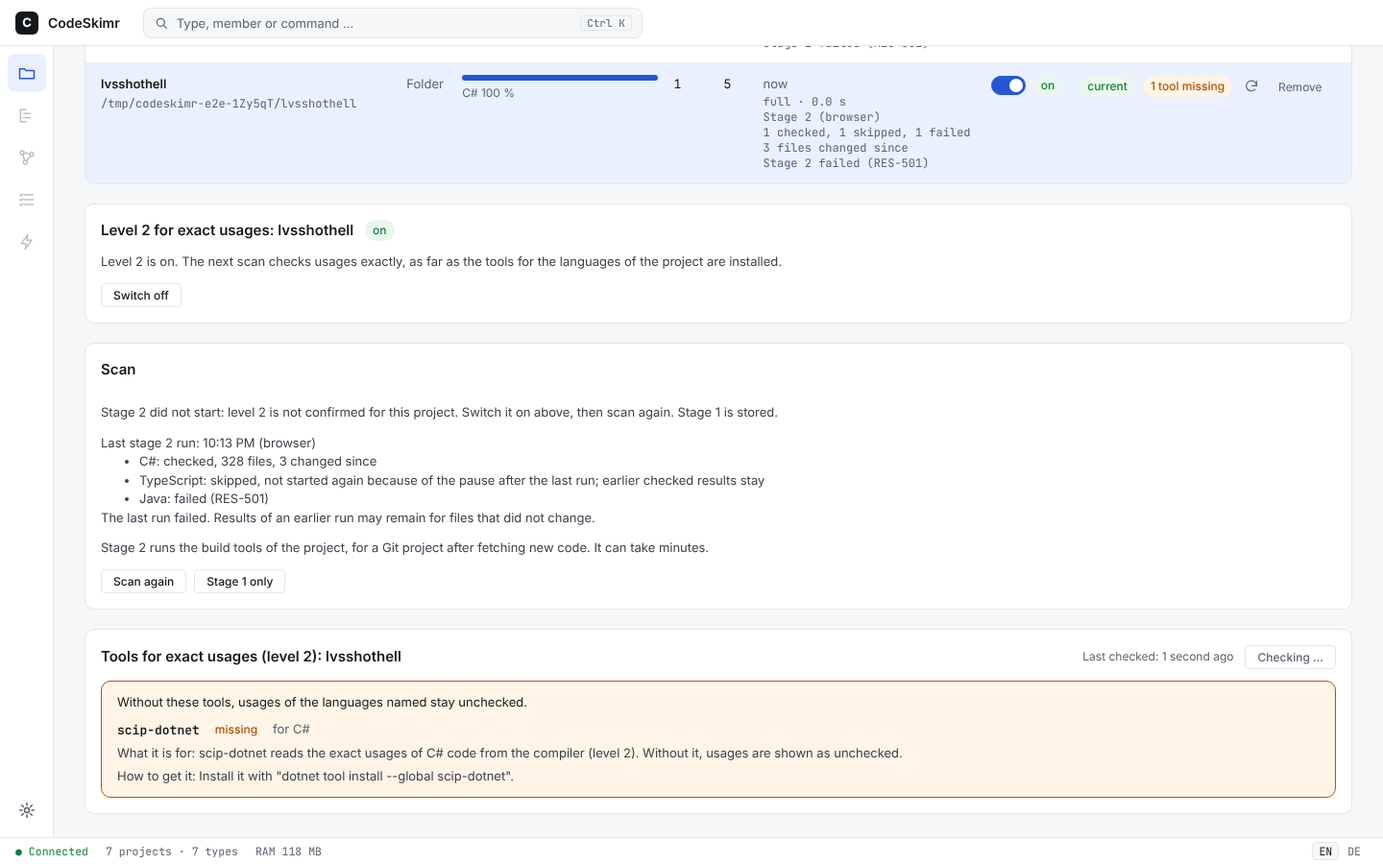
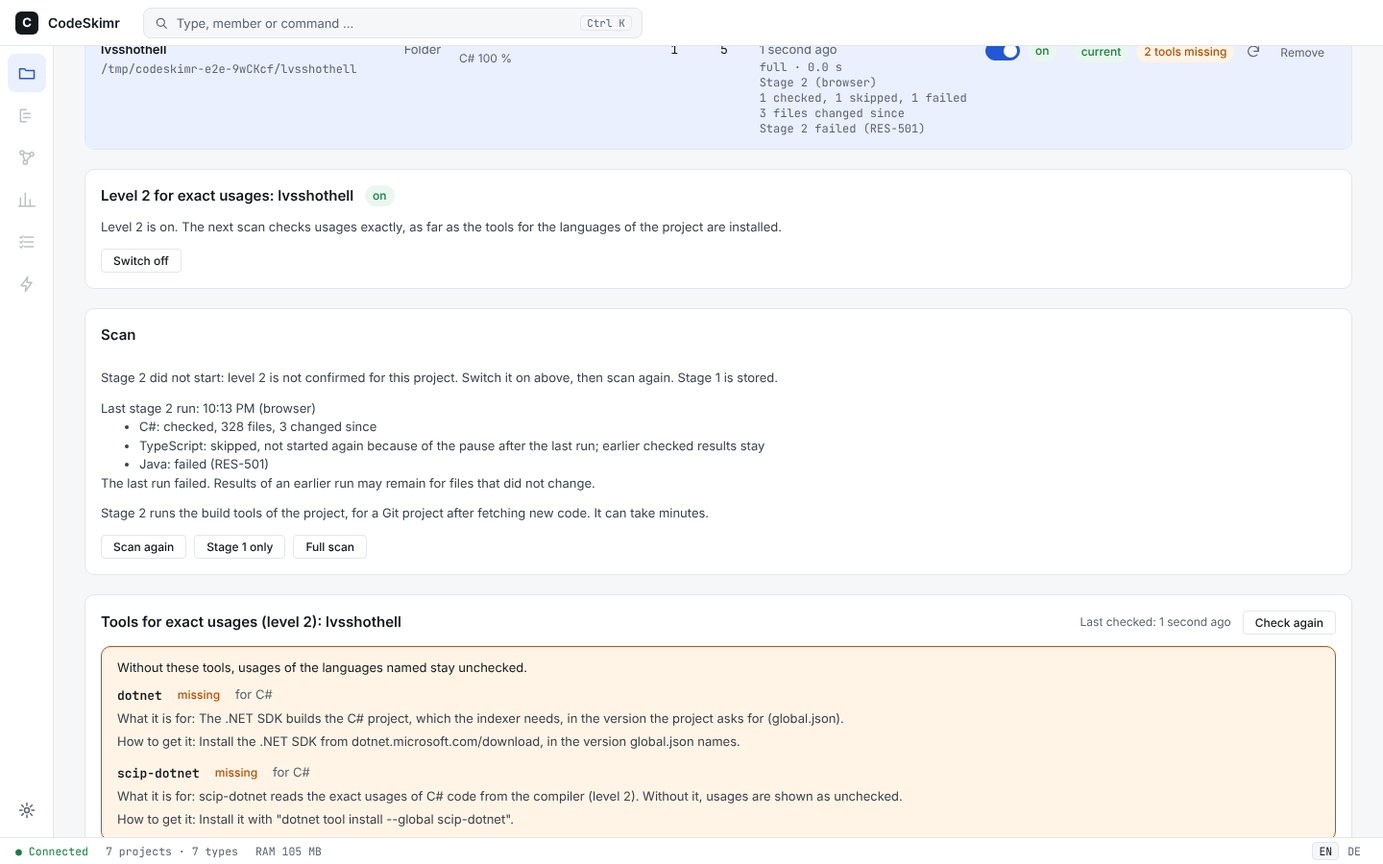
feat(ui): start a full scan of a known project from the Projects screen (#681)
<!-- claude-projects-attribution: {"github_login":"stacknoise"} -->
_Requested by **Anton** · [project
thread](https://claude.ai/code/project/chan_01BurfeyeHWcU615RsoB5poQ?thread=cmsg_01BurfeyeHWcU615RsoB5poQF3sCpakFDpofmNJyMDMRdh)_

## Was ändert sich und warum?

Bisher konnte man ein bereits bekanntes Projekt nur in der Konsole
vollständig neu scannen (`codeskimr scan <pfad>`). Die Knöpfe „Erneut
scannen“ und „Nur Stufe 1“ im Projekte-Bildschirm lesen immer nur die
Änderungen seit dem letzten Scan ein.

Jetzt gibt es im Abschnitt „Scan“ des ausgewählten Projekts einen
dritten Knopf **„Vollständig neu scannen“**. Er liest alle Dateien neu
ein, genau wie der Befehl in der Konsole. Stufe 2 läuft danach wie bei
„Erneut scannen“, wenn sie für das Projekt eingeschaltet und bestätigt
ist.

Technisch: Der Befehl `projects.rescan` bekommt die optionale Angabe
`full` (Standard: aus). Die Scan-Pipeline selbst ist nicht angefasst.

## So probierst du es aus

1. CodeSkimr starten, im Projekte-Bildschirm ein schon gescanntes
Projekt auswählen.
2. Im Abschnitt „Scan“ auf „Vollständig neu scannen“ klicken.
3. In der Projektliste steht beim letzten Scan danach die Art
„vollständig“ statt „inkrementell“.

## Screenshots (bei UI-Änderungen, mit Mock-Vergleich)

Mock 18 (`docs/mocks/Level2Switch.dc.html`) ist in allen drei Themen um
den dritten Knopf ergänzt; die gespeicherten Bilder
`docs/screenshots/level2-scan/scan-report-*.png` sind neu erzeugt. Der
[…]

diff --git a/docs/mocks/Level2Switch.dc.html b/docs/mocks/Level2Switch.dc.html
@@ -51,8 +51,8 @@ td{padding:10px 12px;border-bottom:1px solid var(--soft);vertical-align:top}.sub
 <div class="board petrol tall"><header><div class="logo">C</div><b>CodeSkimr</b><span class="chip">Projekte: Zustände des Schalters</span></header><div class="main"><div class="rail"></div><div class="content"><h1>Projekte</h1><p class="cap">Zustand aus: Einschalten öffnet ein Konsolenfenster</p><section class="card panel"><div class="ph"><h2>Stufe 2 für genaue Verwendungen: shop</h2><span class="pill neutral">aus</span></div><p class="muted" style="margin:0">Stufe 2 ist aus, Scans bleiben bei Stufe 1. Zum Einschalten bestätigst du in einem Konsolenfenster, dass Build-Werkzeuge dieses Projekts laufen dürfen.</p><div class="row"><button class="btn pri focus">Einschalten</button></div></section><p class="cap">Zustand an: Ausschalten fragt kurz nach</p><section class="card panel"><div class="ph"><h2>Stufe 2 für genaue Verwendungen: shop</h2><span class="pill good">an</span></div><div class="box ask" role="group"><b>Stufe 2 für shop ausschalten?</b><p>Geprüfte Ergebnisse bleiben bis zum nächsten Scan erhalten. Der nächste Scan läuft nur mit Stufe 1.</p><div class="row"><button class="btn pri focus">Ja, ausschalten</button><button class="btn">Abbrechen</button></div></div></section><p class="cap">Zustand nicht freigeschaltet: nur ein Hinweis, es wird nichts geschrieben</p><section class="card panel"><div class="ph"><h2>Stufe 2 für genaue Verwendungen: shop</h2><span class="pill warn">nicht freigeschaltet</span></div><p class="muted" style="margin:0">Stufe 2 ist auf diesem Rechner nicht freigeschaltet. CodeSkimr ändert diese Einstellung nie selbst. Trage diese zwei Zeilen in deine Konfigurationsdatei config.toml ein, speichere sie und starte CodeSkimr neu:</p><pre class="code" style="margin:0">[level2]
 enabled = true</pre><p class="mono muted" style="margin:0">Datei: in deiner config.toml im Datenordner</p><div class="row"><button class="btn">Zustand neu lesen</button></div></section></div></div></div>
 <div class="board hell tall"><header><div class="logo">C</div><b>CodeSkimr</b><span class="chip">Projekte: Rückfall und Fehler</span></header><div class="main"><div class="rail"></div><div class="content"><h1>Projekte</h1><p class="cap">Rückfall ohne Terminal (zum Beispiel Linux): Befehl zum Kopieren</p><section class="card panel"><div class="ph"><h2>Stufe 2 für genaue Verwendungen: shop</h2><span class="pill neutral">aus</span></div><div class="box"><b>Bestätigung in einem Terminal abschließen</b><p>Auf diesem Rechner kann von hier aus kein Konsolenfenster geöffnet werden. Führe diesen Befehl in einem Terminal aus und tippe auf Nachfrage den Projektnamen ein:</p><div class="cmd"><span class="code">codeskimr level2 confirm 4</span><button class="btn">Kopieren</button></div><p class="muted">Warte auf die Bestätigung …</p><p class="muted">Nach dem Öffnen eines Fensters gilt eine Pause von 30 Sekunden. Wenn du das Fenster schließt und zu früh erneut klickst, antwortet der Server mit einem Pausenhinweis (API-504). Warte dann kurz und versuche es noch einmal.</p><div class="row"><button class="btn">Warten abbrechen</button></div></div></section><p class="cap">Fehler: Fenster konnte nicht gestartet werden (APP-604), der Befehl steht trotzdem da</p><section class="card panel"><div class="ph"><h2>Stufe 2 für genaue Verwendungen: shop</h2><span class="pill neutral">aus</span></div><div class="box errb" role="alert"><p>Das Konsolenfenster für die Bestätigung konnte nicht gestartet werden. Kopiere den angezeigten Befehl und führe ihn in einem Terminal aus.</p></div><div class="cmd"><span class="code">codeskimr level2 confirm 4</span><button class="btn">Kopieren</button></div></section><p class="cap">Fehler: Pause von 30 Sekunden (API-504)</p><section class="card panel"><div class="ph"><h2>Stufe 2 für genaue Verwendungen: shop</h2><span class="pill neutral">aus</span></div><div class="box errb" role="alert"><p>Vor einem Moment wurde schon ein Bestätigungsfenster geöffnet. Warte kurz und versuche es dann noch einmal.</p><p>Warte 30 Sekunden und schalte dann erneut ein.</p></div><div class="row"><button class="btn pri">Einschalten</button></div></section><p class="cap">Nach dem Ausschalten</p><section class="card panel"><div class="ph"><h2>Stufe 2 für genaue Verwendungen: shop</h2><span class="pill neutral">aus</span></div><div class="box"><p>Stufe 2 ist aus. Geprüfte Ergebnisse bleiben bis zum nächsten Scan erhalten. Der nächste Scan läuft nur mit Stufe 1.</p><div class="row"><button class="btn">Erneut scannen</button></div></div></section></div></div></div>
-<div class="board petrol tall"><header><div class="logo">C</div><b>CodeSkimr</b><span class="chip">Projekte: Scan und Bericht (ADR 0072)</span></header><div class="main"><div class="rail"></div><div class="content"><h1>Projekte</h1><p class="cap">Bericht des letzten Scans: je Sprache geprüft, übersprungen oder fehlgeschlagen</p><section class="card panel"><div class="ph"><h2>Scan: shop</h2></div><p class="muted" style="margin:0">Letzter Lauf von Stufe 2: 14:02 (Browser)</p><ul class="muted" style="margin:0"><li>C#: geprüft, 328 Dateien, 3 seitdem geändert</li><li>TypeScript: übersprungen, ein Werkzeug fehlt</li><li>Java: fehlgeschlagen (RES-501)</li><li>Python: übersprungen, wegen der Pause nach dem letzten Lauf nicht erneut gestartet; frühere geprüfte Ergebnisse bleiben bestehen</li></ul><p class="muted" style="margin:0">Der letzte Lauf ist fehlgeschlagen. Für Dateien, die sich nicht geändert haben, können Ergebnisse eines früheren Laufs bleiben.</p><p class="muted" style="margin:0">Stufe 2 führt die Build-Werkzeuge des Projekts aus, bei einem Git-Projekt nach dem Abholen neuen Codes. Das kann Minuten dauern.</p><div class="row"><button class="btn pri">Erneut scannen</button><button class="btn" title="Ein schneller Scan ohne Build-Werkzeuge.">Nur Stufe 1</button></div></section><p class="cap">Stufe 2 läuft: Fortschritt aus den Ereignissen, Abbrechen lässt Stufe 1 bestehen</p><section class="card panel"><div class="ph"><h2>Scan: shop</h2></div><div class="box" aria-live="polite"><b>Stufe 2 läuft (C#)</b><p>Stufe 2 führt die Build-Werkzeuge des Projekts aus, bei einem Git-Projekt nach dem Abholen neuen Codes. Das kann Minuten dauern.</p><div class="row"><button class="btn focus">Stufe 2 abbrechen</button><span class="muted">Beim Abbrechen bleibt das Ergebnis von Stufe 1 erhalten.</span></div></div></section><p class="cap">Stufe 2 wurde nicht gestartet: Gründe in einfachen Worten, Stufe 1 ist immer gespeichert</p><section class="card panel"><div class="ph"><h2>Scan: shop</h2></div><div class="box ask"><p>Stufe 2 wurde nicht gestartet: Stufe 2 ist für dieses Projekt nicht bestätigt. Oben einschalten, dann erneut scannen. Stufe 1 ist gespeichert.</p></div><div class="box ask"><p>Stufe 2 wurde nicht gestartet: Ein anderer Lauf von Stufe 2 ist aktiv. Stufe 1 ist gespeichert; scanne erneut, wenn der Lauf beendet ist.</p></div><div class="box ask"><p>Stufe 2 wurde nicht gestartet: Nach einem Lauf gilt eine Pause. Stufe 1 ist gespeichert; scanne in einer Minute erneut.</p></div></section></div></div></div>
-<div class="board hell tall"><header><div class="logo">C</div><b>CodeSkimr</b><span class="chip">Projekte: Scan und Bericht (ADR 0072)</span></header><div class="main"><div class="rail"></div><div class="content"><h1>Projekte</h1><p class="cap">Bericht des letzten Scans: je Sprache geprüft, übersprungen oder fehlgeschlagen</p><section class="card panel"><div class="ph"><h2>Scan: shop</h2></div><p class="muted" style="margin:0">Letzter Lauf von Stufe 2: 14:02 (Browser)</p><ul class="muted" style="margin:0"><li>C#: geprüft, 328 Dateien, 3 seitdem geändert</li><li>TypeScript: übersprungen, ein Werkzeug fehlt</li><li>Java: fehlgeschlagen (RES-501)</li><li>Python: übersprungen, wegen der Pause nach dem letzten Lauf nicht erneut gestartet; frühere geprüfte Ergebnisse bleiben bestehen</li></ul><p class="muted" style="margin:0">Der letzte Lauf ist fehlgeschlagen. Für Dateien, die sich nicht geändert haben, können Ergebnisse eines früheren Laufs bleiben.</p><p class="muted" style="margin:0">Stufe 2 führt die Build-Werkzeuge des Projekts aus, bei einem Git-Projekt nach dem Abholen neuen Codes. Das kann Minuten dauern.</p><div class="row"><button class="btn pri">Erneut scannen</button><button class="btn" title="Ein schneller Scan ohne Build-Werkzeuge.">Nur Stufe 1</button></div></section><p class="cap">Stufe 2 läuft: Fortschritt aus den Ereignissen, Abbrechen lässt Stufe 1 bestehen</p><section class="card panel"><div class="ph"><h2>Scan: shop</h2></div><div class="box" aria-live="polite"><b>Stufe 2 läuft (C#)</b><p>Stufe 2 führt die Build-Werkzeuge des Projekts aus, bei einem Git-Projekt nach dem Abholen neuen Codes. Das kann Minuten dauern.</p><div class="row"><button class="btn focus">Stufe 2 abbrechen</button><span class="muted">Beim Abbrechen bleibt das Ergebnis von Stufe 1 erhalten.</span></div></div></section><p class="cap">Stufe 2 wurde nicht gestartet: Gründe in einfachen Worten, Stufe 1 ist immer gespeichert</p><section class="card panel"><div class="ph"><h2>Scan: shop</h2></div><div class="box ask"><p>Stufe 2 wurde nicht gestartet: Stufe 2 ist für dieses Projekt nicht bestätigt. Oben einschalten, dann erneut scannen. Stufe 1 ist gespeichert.</p></div><div class="box ask"><p>Stufe 2 wurde nicht gestartet: Ein anderer Lauf von Stufe 2 ist aktiv. Stufe 1 ist gespeichert; scanne erneut, wenn der Lauf beendet ist.</p></div><div class="box ask"><p>Stufe 2 wurde nicht gestartet: Nach einem Lauf gilt eine Pause. Stufe 1 ist gespeichert; scanne in einer Minute erneut.</p></div></section></div></div></div>
-<div class="board dunkel tall"><header><div class="logo">C</div><b>CodeSkimr</b><span class="chip">Projekte: Scan und Bericht (ADR 0072)</span></header><div class="main"><div class="rail"></div><div class="content"><h1>Projekte</h1><p class="cap">Bericht des letzten Scans: je Sprache geprüft, übersprungen oder fehlgeschlagen</p><section class="card panel"><div class="ph"><h2>Scan: shop</h2></div><p class="muted" style="margin:0">Letzter Lauf von Stufe 2: 14:02 (Browser)</p><ul class="muted" style="margin:0"><li>C#: geprüft, 328 Dateien, 3 seitdem geändert</li><li>TypeScript: übersprungen, ein Werkzeug fehlt</li><li>Java: fehlgeschlagen (RES-501)</li><li>Python: übersprungen, wegen der Pause nach dem letzten Lauf nicht erneut gestartet; frühere geprüfte Ergebnisse bleiben bestehen</li></ul><p class="muted" style="margin:0">Der letzte Lauf ist fehlgeschlagen. Für Dateien, die sich nicht geändert haben, können Ergebnisse eines früheren Laufs bleiben.</p><p class="muted" style="margin:0">Stufe 2 führt die Build-Werkzeuge des Projekts aus, bei einem Git-Projekt nach dem Abholen neuen Codes. Das kann Minuten dauern.</p><div class="row"><button class="btn pri">Erneut scannen</button><button class="btn" title="Ein schneller Scan ohne Build-Werkzeuge.">Nur Stufe 1</button></div></section><p class="cap">Stufe 2 läuft: Fortschritt aus den Ereignissen, Abbrechen lässt Stufe 1 bestehen</p><section class="card panel"><div class="ph"><h2>Scan: shop</h2></div><div class="box" aria-live="polite"><b>Stufe 2 läuft (C#)</b><p>Stufe 2 führt die Build-Werkzeuge des Projekts aus, bei einem Git-Projekt nach dem Abholen neuen Codes. Das kann Minuten dauern.</p><div class="row"><button class="btn focus">Stufe 2 abbrechen</button><span class="muted">Beim Abbrechen bleibt das Ergebnis von Stufe 1 erhalten.</span></div></div></section><p class="cap">Stufe 2 wurde nicht gestartet: Gründe in einfachen Worten, Stufe 1 ist immer gespeichert</p><section class="card panel"><div class="ph"><h2>Scan: shop</h2></div><div class="box ask"><p>Stufe 2 wurde nicht gestartet: Stufe 2 ist für dieses Projekt nicht bestätigt. Oben einschalten, dann erneut scannen. Stufe 1 ist gespeichert.</p></div><div class="box ask"><p>Stufe 2 wurde nicht gestartet: Ein anderer Lauf von Stufe 2 ist aktiv. Stufe 1 ist gespeichert; scanne erneut, wenn der Lauf beendet ist.</p></div><div class="box ask"><p>Stufe 2 wurde nicht gestartet: Nach einem Lauf gilt eine Pause. Stufe 1 ist gespeichert; scanne in einer Minute erneut.</p></div></section></div></div></div>
+<div class="board petrol tall"><header><div class="logo">C</div><b>CodeSkimr</b><span class="chip">Projekte: Scan und Bericht (ADR 0072)</span></header><div class="main"><div class="rail"></div><div class="content"><h1>Projekte</h1><p class="cap">Bericht des letzten Scans: je Sprache geprüft, übersprungen oder fehlgeschlagen</p><section class="card panel"><div class="ph"><h2>Scan: shop</h2></div><p class="muted" style="margin:0">Letzter Lauf von Stufe 2: 14:02 (Browser)</p><ul class="muted" style="margin:0"><li>C#: geprüft, 328 Dateien, 3 seitdem geändert</li><li>TypeScript: übersprungen, ein Werkzeug fehlt</li><li>Java: fehlgeschlagen (RES-501)</li><li>Python: übersprungen, wegen der Pause nach dem letzten Lauf nicht erneut gestartet; frühere geprüfte Ergebnisse bleiben bestehen</li></ul><p class="muted" style="margin:0">Der letzte Lauf ist fehlgeschlagen. Für Dateien, die sich nicht geändert haben, können Ergebnisse eines früheren Laufs bleiben.</p><p class="muted" style="margin:0">Stufe 2 führt die Build-Werkzeuge des Projekts aus, bei einem Git-Projekt nach dem Abholen neuen Codes. Das kann Minuten dauern.</p><div class="row"><button class="btn pri">Erneut scannen</button><button class="btn" title="Ein schneller Scan ohne Build-Werkzeuge.">Nur Stufe 1</button><button class="btn" title="Liest alle Dateien neu ein, nicht nur die Änderungen (wie „codeskimr scan“ in der Konsole).">Vollständig neu scannen</button></div></section><p class="cap">Stufe 2 läuft: Fortschritt aus den Ereignissen, Abbrechen lässt Stufe 1 bestehen</p><section class="card panel"><div class="ph"><h2>Scan: shop</h2></div><div class="box" aria-live="polite"><b>Stufe 2 läuft (C#)</b><p>Stufe 2 führt die Build-Werkzeuge des Projekts aus, bei einem Git-Projekt nach dem Abholen neuen Codes. Das kann Minuten dauern.</p><div class="row"><button class="btn focus">Stufe 2 abbrechen</button><span class="muted">Beim Abbrechen bleibt das Ergebnis von Stufe 1 erhalten.</span></div></div></section><p class="cap">Stufe 2 wurde nicht gestartet: Gründe in einfachen Worten, Stufe 1 ist immer gespeichert</p><section class="card panel"><div class="ph"><h2>Scan: shop</h2></div><div class="box ask"><p>Stufe 2 wurde nicht gestartet: Stufe 2 ist für dieses Projekt nicht bestätigt. Oben einschalten, dann erneut scannen. Stufe 1 ist gespeichert.</p></div><div class="box ask"><p>Stufe 2 wurde nicht gestartet: Ein anderer Lauf von Stufe 2 ist aktiv. Stufe 1 ist gespeichert; scanne erneut, wenn der Lauf beendet ist.</p></div><div class="box ask"><p>Stufe 2 wurde nicht gestartet: Nach einem Lauf gilt eine Pause. Stufe 1 ist gespeichert; scanne in einer Minute erneut.</p></div></section></div></div></div>
+<div class="board hell tall"><header><div class="logo">C</div><b>CodeSkimr</b><span class="chip">Projekte: Scan und Bericht (ADR 0072)</span></header><div class="main"><div class="rail"></div><div class="content"><h1>Projekte</h1><p class="cap">Bericht des letzten Scans: je Sprache geprüft, übersprungen oder fehlgeschlagen</p><section class="card panel"><div class="ph"><h2>Scan: shop</h2></div><p class="muted" style="margin:0">Letzter Lauf von Stufe 2: 14:02 (Browser)</p><ul class="muted" style="margin:0"><li>C#: geprüft, 328 Dateien, 3 seitdem geändert</li><li>TypeScript: übersprungen, ein Werkzeug fehlt</li><li>Java: fehlgeschlagen (RES-501)</li><li>Python: übersprungen, wegen der Pause nach dem letzten Lauf nicht erneut gestartet; frühere geprüfte Ergebnisse bleiben bestehen</li></ul><p class="muted" style="margin:0">Der letzte Lauf ist fehlgeschlagen. Für Dateien, die sich nicht geändert haben, können Ergebnisse eines früheren Laufs bleiben.</p><p class="muted" style="margin:0">Stufe 2 führt die Build-Werkzeuge des Projekts aus, bei einem Git-Projekt nach dem Abholen neuen Codes. Das kann Minuten dauern.</p><div class="row"><button class="btn pri">Erneut scannen</button><button class="btn" title="Ein schneller Scan ohne Build-Werkzeuge.">Nur Stufe 1</button><button class="btn" title="Liest alle Dateien neu ein, nicht nur die Änderungen (wie „codeskimr scan“ in der Konsole).">Vollständig neu scannen</button></div></section><p class="cap">Stufe 2 läuft: Fortschritt aus den Ereignissen, Abbrechen lässt Stufe 1 bestehen</p><section class="card panel"><div class="ph"><h2>Scan: shop</h2></div><div class="box" aria-live="polite"><b>Stufe 2 läuft (C#)</b><p>Stufe 2 führt die Build-Werkzeuge des Projekts aus, bei einem Git-Projekt nach dem Abholen neuen Codes. Das kann Minuten dauern.</p><div class="row"><button class="btn focus">Stufe 2 abbrechen</button><span class="muted">Beim Abbrechen bleibt das Ergebnis von Stufe 1 erhalten.</span></div></div></section><p class="cap">Stufe 2 wurde nicht gestartet: Gründe in einfachen Worten, Stufe 1 ist immer gespeichert</p><section class="card panel"><div class="ph"><h2>Scan: shop</h2></div><div class="box ask"><p>Stufe 2 wurde nicht gestartet: Stufe 2 ist für dieses Projekt nicht bestätigt. Oben einschalten, dann erneut scannen. Stufe 1 ist gespeichert.</p></div><div class="box ask"><p>Stufe 2 wurde nicht gestartet: Ein anderer Lauf von Stufe 2 ist aktiv. Stufe 1 ist gespeichert; scanne erneut, wenn der Lauf beendet ist.</p></div><div class="box ask"><p>Stufe 2 wurde nicht gestartet: Nach einem Lauf gilt eine Pause. Stufe 1 ist gespeichert; scanne in einer Minute erneut.</p></div></section></div></div></div>
+<div class="board dunkel tall"><header><div class="logo">C</div><b>CodeSkimr</b><span class="chip">Projekte: Scan und Bericht (ADR 0072)</span></header><div class="main"><div class="rail"></div><div class="content"><h1>Projekte</h1><p class="cap">Bericht des letzten Scans: je Sprache geprüft, übersprungen oder fehlgeschlagen</p><section class="card panel"><div class="ph"><h2>Scan: shop</h2></div><p class="muted" style="margin:0">Letzter Lauf von Stufe 2: 14:02 (Browser)</p><ul class="muted" style="margin:0"><li>C#: geprüft, 328 Dateien, 3 seitdem geändert</li><li>TypeScript: übersprungen, ein Werkzeug fehlt</li><li>Java: fehlgeschlagen (RES-501)</li><li>Python: übersprungen, wegen der Pause nach dem letzten Lauf nicht erneut gestartet; frühere geprüfte Ergebnisse bleiben bestehen</li></ul><p class="muted" style="margin:0">Der letzte Lauf ist fehlgeschlagen. Für Dateien, die sich nicht geändert haben, können Ergebnisse eines früheren Laufs bleiben.</p><p class="muted" style="margin:0">Stufe 2 führt die Build-Werkzeuge des Projekts aus, bei einem Git-Projekt nach dem Abholen neuen Codes. Das kann Minuten dauern.</p><div class="row"><button class="btn pri">Erneut scannen</button><button class="btn" title="Ein schneller Scan ohne Build-Werkzeuge.">Nur Stufe 1</button><button class="btn" title="Liest alle Dateien neu ein, nicht nur die Änderungen (wie „codeskimr scan“ in der Konsole).">Vollständig neu scannen</button></div></section><p class="cap">Stufe 2 läuft: Fortschritt aus den Ereignissen, Abbrechen lässt Stufe 1 bestehen</p><section class="card panel"><div class="ph"><h2>Scan: shop</h2></div><div class="box" aria-live="polite"><b>Stufe 2 läuft (C#)</b><p>Stufe 2 führt die Build-Werkzeuge des Projekts aus, bei einem Git-Projekt nach dem Abholen neuen Codes. Das kann Minuten dauern.</p><div class="row"><button class="btn focus">Stufe 2 abbrechen</button><span class="muted">Beim Abbrechen bleibt das Ergebnis von Stufe 1 erhalten.</span></div></div></section><p class="cap">Stufe 2 wurde nicht gestartet: Gründe in einfachen Worten, Stufe 1 ist immer gespeichert</p><section class="card panel"><div class="ph"><h2>Scan: shop</h2></div><div class="box ask"><p>Stufe 2 wurde nicht gestartet: Stufe 2 ist für dieses Projekt nicht bestätigt. Oben einschalten, dann erneut scannen. Stufe 1 ist gespeichert.</p></div><div class="box ask"><p>Stufe 2 wurde nicht gestartet: Ein anderer Lauf von Stufe 2 ist aktiv. Stufe 1 ist gespeichert; scanne erneut, wenn der Lauf beendet ist.</p></div><div class="box ask"><p>Stufe 2 wurde nicht gestartet: Nach einem Lauf gilt eine Pause. Stufe 1 ist gespeichert; scanne in einer Minute erneut.</p></div></section></div></div></div>
 </body>
 </html>

diff --git a/web/src/features/projects/ScanPanel.tsx b/web/src/features/projects/ScanPanel.tsx
@@ -130,34 +130,49 @@ function Report(props: { row: ProjectRow }) {
   );
 }
 
-/** The scan buttons: a full scan that runs stage 2 where it is allowed, and a quick one without. */
+/** One scan button: starts the scan and keeps the focus on the project. */
+function ScanButton(props: { row: ProjectRow; label: string; hint?: string; scan: () => void }) {
+  return (
+    <button
+      type="button"
+      class={styles.button}
+      title={props.hint}
+      onClick={() => {
+        props.scan();
+        keepFocus(props.row.id);
+      }}
+    >
+      {props.label}
+    </button>
+  );
+}
+
+/** The scan buttons: a scan of the changes that runs stage 2 where it is allowed, a quick one
+ * without, and a full one that reads every file again. */
 function Buttons(props: { row: ProjectRow }) {
   const busy = () => props.row.running || projectsScanning().has(props.row.id);
+  const id = () => props.row.id;
   return (
     <Show when={!busy()}>
       <p class={styles.text}>{t(I18N_KEYS.PROJECTS_LEVEL2_BUILD_NOTE)}</p>
       <div class={styles.buttons}>
-        <button
-          type="button"
-          class={styles.button}
-          onClick={() => {
-            void rescanProject(props.row.id);
-            keepFocus(props.row.id);
-          }}
-        >
-          {t(I18N_KEYS.PROJECTS_LEVEL2_RESCAN)}
-        </button>
-        <button
-          type="button"
-          class={styles.button}
-          title={t(I18N_KEYS.PROJECTS_LEVEL2_STAGE1_ONLY_HINT)}
-          onClick={() => {
-            void rescanProject(props.row.id, false);
-            keepFocus(props.row.id);
-          }}
-        >
-          {t(I18N_KEYS.PROJECTS_LEVEL2_STAGE1_ONLY)}
-        </button>
+        <ScanButton
+          row={props.row}
+          label={t(I18N_KEYS.PROJECTS_LEVEL2_RESCAN)}
+          scan={() => void rescanProject(id())}
+        />
+        <ScanButton
+          row={props.row}
+          label={t(I18N_KEYS.PROJECTS_LEVEL2_STAGE1_ONLY)}
+          hint={t(I18N_KEYS.PROJECTS_LEVEL2_STAGE1_ONLY_HINT)}
+          scan={() => void rescanProject(id(), false)}
+        />
+        <ScanButton
+          row={props.row}
+          label={t(I18N_KEYS.PROJECTS_LEVEL2_FULL_RESCAN)}
+          hint={t(I18N_KEYS.PROJECTS_LEVEL2_FULL_RESCAN_HINT)}
+          scan={() => void rescanProject(id(), true, true)}
+        />
       </div>
     </Show>
   );

diff --git a/web/src/features/projects/projects.ts b/web/src/features/projects/projects.ts
@@ -169,8 +169,9 @@ function mark(project: number, on: boolean): void {
 
 /** Scans a project again, incrementally if it was scanned before. A scan from the browser runs
  * stage 2 after stage 1 where it is confirmed; `level2: false` makes this one scan stage 1 only
- * (ADR 0072, decision 1). */
-export async function rescanProject(project: number, level2 = true): Promise<void> {
+ * (ADR 0072, decision 1). `full: true` reads every file again instead of the changes only, as
+ * `codeskimr scan` does. */
+export async function rescanProject(project: number, level2 = true, full = false): Promise<void> {
   if (scanning().has(project)) {
     return;
   }
@@ -181,7 +182,11 @@ export async function rescanProject(project: number, level2 = true): Promise<voi
   try {
     remember(
       await whileReading(() =>
-        runCommand<Scanned>(COMMAND.rescan, level2 ? { project } : { project, level2 }),
+        runCommand<Scanned>(COMMAND.rescan, {
+          project,
+          ...(level2 ? {} : { level2 }),
+          ...(full ? { full } : {}),
+        }),
       ),
     );
   } catch (error) {

diff --git a/web/src/features/projects/ScanPanel.test.tsx b/web/src/features/projects/ScanPanel.test.tsx
@@ -102,6 +102,13 @@ describe("the scan buttons", () => {
     expect(rescanBody()).toEqual({ project: 4, level2: false });
   });
 
+  it("scans every file again on request", async () => {
+    const panel = await selected();
+    fireEvent.click(within(panel).getByRole("button", { name: "Full scan" }));
+    await rescanAsked();
+    expect(rescanBody()).toEqual({ project: 4, full: true });
+  });
+
   it.each([
     ["not_confirmed", /not confirmed for this project/],
     ["busy", /another stage 2 run is going on/],
@@ -157,7 +164,7 @@ describe("focus and announcements", () => {
 
   it("puts the focus on the switch when a scan button goes away under it", async () => {
     const panel = await selected();
-    for (const name of ["Scan again", "Stage 1 only"]) {
+    for (const name of ["Scan again", "Stage 1 only", "Full scan"]) {
       const button = within(panel).getByRole("button", { name });
       button.focus();
       fireEvent.click(button);

diff --git a/web/src/shared/i18n/keys.ts b/web/src/shared/i18n/keys.ts
@@ -753,6 +753,8 @@ export const I18N_KEYS = {
   PROJECTS_LEVEL2_BUILD_NOTE: "projects-level2-build-note",
   PROJECTS_LEVEL2_STAGE1_ONLY: "projects-level2-stage1-only",
   PROJECTS_LEVEL2_STAGE1_ONLY_HINT: "projects-level2-stage1-only-hint",
+  PROJECTS_LEVEL2_FULL_RESCAN: "projects-level2-full-rescan",
+  PROJECTS_LEVEL2_FULL_RESCAN_HINT: "projects-level2-full-rescan-hint",
   PROJECTS_LEVEL2_SCAN_TITLE: "projects-level2-scan-title",
   PROJECTS_LEVEL2_FINISHED: "projects-level2-finished",
   PROJECTS_LEVEL2_NOT_STARTED_NOT_PERMITTED: "projects-level2-not-started-not-permitted",

diff --git a/crates/app/src/ui_commands/projects.rs b/crates/app/src/ui_commands/projects.rs
@@ -396,9 +396,14 @@ pub struct RescanInput {
     /// confirmed for the project.
     #[serde(default)]
     pub level2: Option<bool>,
+    /// `true` scans every file again, as `codeskimr scan` does; left out or `false` scans
+    /// incrementally if the project has been scanned before.
+    #[serde(default)]
+    pub full: bool,
 }
 
-/// Scans a registered project again, incrementally if it has been scanned before.
+/// Scans a registered project again, incrementally if it has been scanned before, or completely
+/// if the caller asks for it.
 pub struct RescanProject {
     pub(super) catalog: Arc<dyn ProjectCatalog>,
     pub(super) context: Arc<Context>,
@@ -434,7 +439,7 @@ impl Command for RescanProject {
         )?
         .with_tools(Arc::clone(&context.tools));
         let run = context.browser_run(id, request.input.level2)?;
-        let mode = if scanned_before {
+        let mode = if scanned_before && !request.input.full {
             ScanMode::Incremental
         } else {
             ScanMode::Full

diff --git a/crates/app/src/ui_commands/tests.rs b/crates/app/src/ui_commands/tests.rs
@@ -291,6 +291,22 @@ fn a_project_is_scanned_again_incrementally() {
 }
 
 #[test]
+fn a_project_is_scanned_completely_when_the_caller_asks_for_it() {
+    let fixture = Fixture::new();
+    let scanned = fixture
+        .call("projects.add", json!({ "source": fixture.folder() }))
+        .unwrap();
+    fixture
+        .call(
+            "projects.rescan",
+            json!({ "project": scanned["project"], "full": true }),
+        )
+        .unwrap();
+    let list = fixture.call("projects.list", Value::Null).unwrap();
+    assert_eq!(list[0]["scan"]["mode"], "full");
+}
+
+#[test]
 fn a_scan_of_the_browser_says_why_level_2_did_not_start_and_stores_the_report() {
     let fixture = Fixture::new();
     let scanned = fixture

diff --git a/docs/ui.md b/docs/ui.md
@@ -24,7 +24,7 @@ codeskimr open
 
 ## Projects (screen 1, WP-44)
 
-The screen calls four commands over `POST /api/v1/commands/{id}` (`shared/api/commands.ts`): `projects.list`, `projects.add`, `projects.rescan` and `projects.remove` (see `docs/server.md`).
+The screen calls four commands over `POST /api/v1/commands/{id}` (`shared/api/commands.ts`): `projects.list`, `projects.add`, `projects.rescan` and `projects.remove` (see `docs/server.md`). `projects.rescan` scans the changes since the last scan; with `full: true` (the button "Full scan" of the scan section) it reads every file again, as `codeskimr scan` does.
 
 - `projects.ts` keeps the list, the failure of the last action and the scans started in this tab. While a scan runs, the list is read every 1.5 s, so a running scan shows up as "scan running".
 - Keys: `N` focuses the source field, arrow keys move the selection, `Enter` opens the project (it becomes the active project, `shared/project/active.ts`, and the explorer is shown), `R` scans it again. Typing in a field and Ctrl, Alt or Meta combinations never trigger them.
@@ -118,7 +118,7 @@ Screenshots (1440 x 900): [Hell](screenshots/status-hell.png), [Petrol](screensh
 - Language table (issue #210): language, tier, files, lines and symbols. The tier (`full` or `basic`) comes from the `language.toml` of the installed pack (`projects.list`, `languages[].tier`; read from the manifests only, so no grammar is compiled; a pack with an invalid manifest is left out, and a table that could not be read is tried again at the next call); a language without an installed pack shows a dash. The symbols are the symbols of the newest snapshot whose file is of that language (`languages[].symbols`).
 - Header: next to the name of the project it shows `main @ e07c4a1` (branch and the first seven characters of the commit), or what of the two is known: a folder project has no branch, and a project without a commit shows nothing.
 - Time per stage (issue #210): `scan_progressed` carries `elapsed_ms`, the milliseconds since the stage started, measured by the server. A stage reports once more when it is over, with the same counts and its whole time; the screen shows that time for a finished stage, and the time since its first report (as the browser saw it) while it still runs.
-- Starting a scan (the Projects screen: "Add and scan", "Scan again", the key `R`, "Stage 1 only") opens this screen for the project; a scan that is started elsewhere (CLI, MCP, another tab, the file watcher) does not move the page. Adding a project has no id before the first report, so the first `scan_progressed` of a project that this tab did not know when it added shows the screen (a second new project that is scanned by another channel at the same moment can take it, which is accepted). Until the first report of the new scan comes, the header says "Scan starting" and the run before it is not shown as if it were this one.
+- Starting a scan (the Projects screen: "Add and scan", "Scan again", the key `R`, "Stage 1 only", "Full scan") opens this screen for the project; a scan that is started elsewhere (CLI, MCP, another tab, the file watcher) does not move the page. Adding a project has no id before the first report, so the first `scan_progressed` of a project that this tab did not know when it added shows the screen (a second new project that is scanned by another channel at the same moment can take it, which is accepted). Until the first report of the new scan comes, the header says "Scan starting" and the run before it is not shown as if it were this one.
 - Share per stage: every stage row has a bar (`role="progressbar"`, named like the stage) and a percent figure. A stage has a share only once it has finished a unit of a known total (the parse stage counts files); a stage that works without one (resolve and metrics are single calls) has no `aria-valuenow`, shows a moving bar and a visible note ("progress cannot be measured"), linked with `aria-describedby`. The figure of the whole scan stays at 99 until the scan is done. Stage 2 (indexers) shows a line with the language, without a count.
 - After a reload: the event bus keeps the last report of each stage of each running scan (`EventBus::running_scans`, forgotten at `snapshot_created`, `scan_stopped` or when the scan thread ends, a panic included). A new event stream starts with these reports, so the page shows the running scan with its counts and its real times (`elapsed_ms` moves the start back). A queued older report never moves a stage count back.
 - Deviations from the mock: the pipeline stage is called "Save" and not "Symbols and members": symbols and members are made by the stage "Parse" together with the types, so the real pipeline has no stage of that name, and the screen shows the stages as `StageKind` knows them.

diff --git a/docs/manual/de/projekte-und-scan.md b/docs/manual/de/projekte-und-scan.md
@@ -21,7 +21,7 @@ Ein relativer Ordnerpfad wird abgelehnt (`PRJ-101`); der Ordner, in dem der Serv
 
 Zeigt den laufenden oder zuletzt gelaufenen Scan: die Stufe, in der er steht (Quelle holen, Dateien finden, Parsen, Abhängigkeiten auflösen, Metriken, Speichern), Dateien und Zeilen pro Sekunde, genutzte Kerne, Speicher und eine Tabelle je Sprache mit Stufe, Dateien, Symbolen und Parse-Zeit. „Letzte Scans“ listet frühere auf. „Leistungsziele“ vergleicht gemessene Werte des Programms mit seinen Budgets (Programmstart, Suche je Tastendruck, Typwechsel, Verwendungsabfrage, Kartenlayout).
 
-Der erste Scan eines Projekts ist vollständig. Spätere Scans sind **inkrementell**: Dateien werden über einen Inhalts-Hash verglichen, und nur geänderte Dateien werden neu gelesen; ein Scan nach einer kleinen Änderung ist in einem Bruchteil einer Sekunde fertig. Die Oberfläche bleibt während eines Scans bedienbar, und Sie können einen laufenden Scan mit dem Knopf „Abbrechen“ oder `Esc` **abbrechen**; er endet, ohne einen Snapshot zu schreiben.
+Der erste Scan eines Projekts ist vollständig. Spätere Scans sind **inkrementell**: Dateien werden über einen Inhalts-Hash verglichen, und nur geänderte Dateien werden neu gelesen; ein Scan nach einer kleinen Änderung ist in einem Bruchteil einer Sekunde fertig. Der Knopf **„Vollständig neu scannen“** im Abschnitt „Scan“ des ausgewählten Projekts liest stattdessen alle Dateien neu ein, wie `codeskimr scan` in der Kommandozeile. Die Oberfläche bleibt während eines Scans bedienbar, und Sie können einen laufenden Scan mit dem Knopf „Abbrechen“ oder `Esc` **abbrechen**; er endet, ohne einen Snapshot zu schreiben.
 
 ## Auf der Kommandozeile
 

diff --git a/docs/manual/en/projects-and-scan.md b/docs/manual/en/projects-and-scan.md
@@ -21,7 +21,7 @@ A relative folder path is refused (`PRJ-101`), so the folder the server happens 
 
 Shows the scan that is running or ran last: the stage it is in (fetch source, find files, parse, resolve dependencies, metrics, save), files and lines per second, cores in use, memory, and a table per language with tier, files, symbols and parse time. "Recent scans" lists earlier ones. "Performance targets" compares measured values of the program with its budgets (program start, search per keystroke, switching a type, usages query, map layout).
 
-The first scan of a project is full. Later scans are **incremental**: files are compared by a content hash and only changed files are read again; a scan after a small change finishes in a fraction of a second. The interface stays usable during a scan, and you can **cancel** a running scan with the button "Cancel" or `Esc`; it ends without writing a snapshot.
+The first scan of a project is full. Later scans are **incremental**: files are compared by a content hash and only changed files are read again; a scan after a small change finishes in a fraction of a second. The button **"Full scan"** in the section "Scan" of the selected project reads every file again instead, as `codeskimr scan` does on the command line. The interface stays usable during a scan, and you can **cancel** a running scan with the button "Cancel" or `Esc`; it ends without writing a snapshot.
 
 ## On the command line
 
